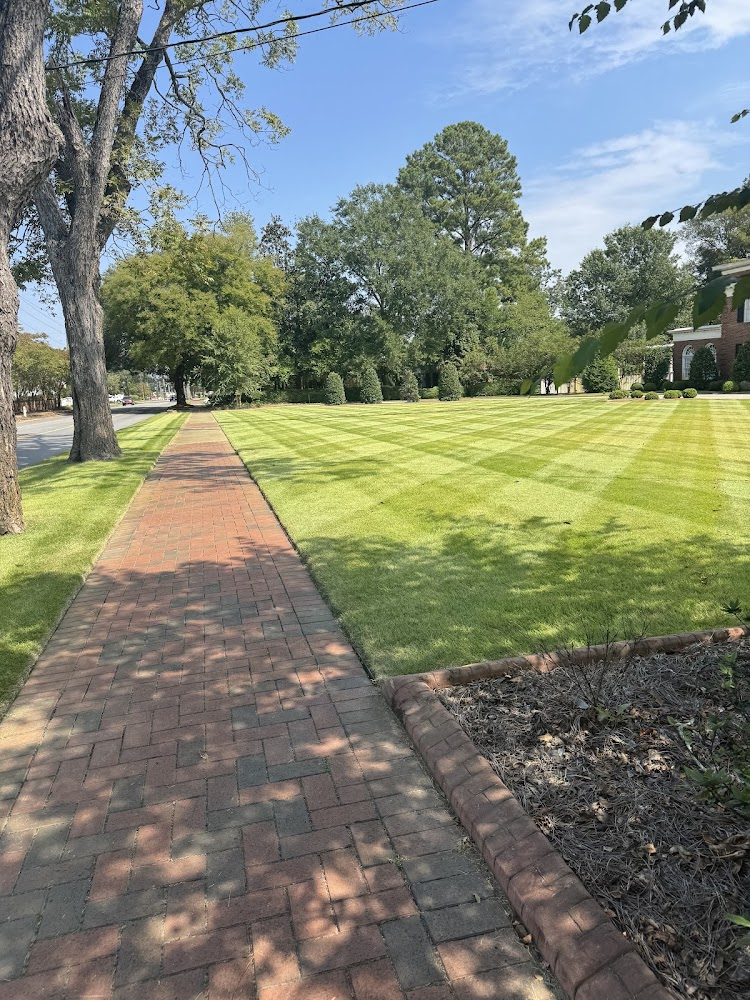
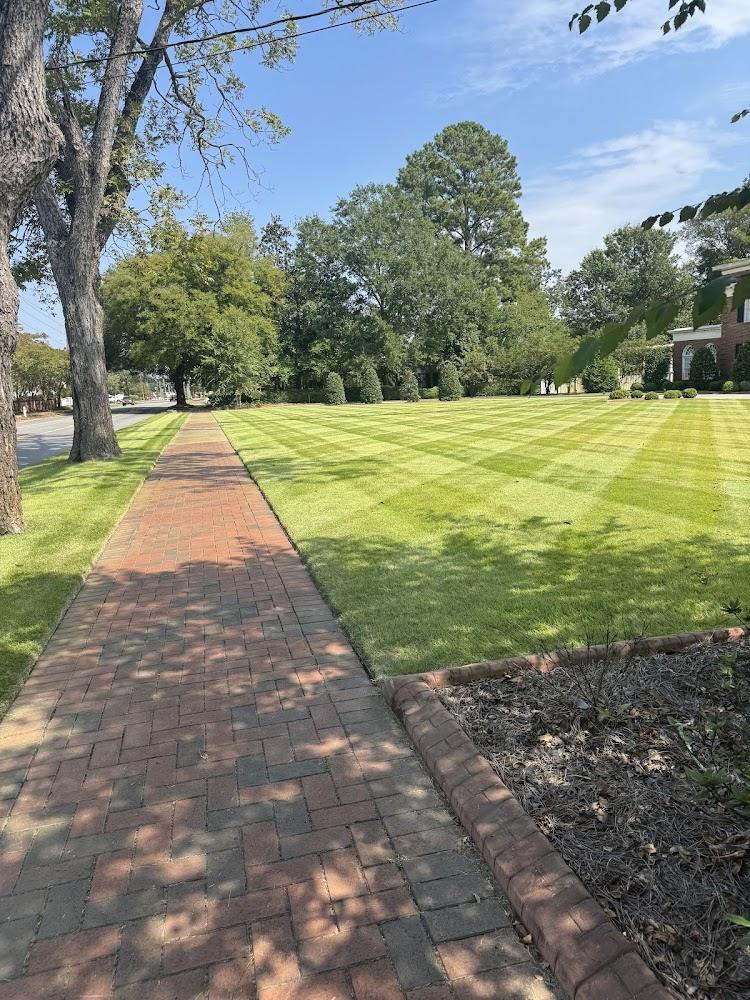
Preview: clark-s-lawn-care

diff --git a/clark-s-lawn-care/index.html b/clark-s-lawn-care/index.html
@@ -108,10 +108,23 @@ footer .wrap{display:flex;justify-content:space-between;gap:20px;flex-wrap:wrap;
 .bar a.alt{background:var(--card);color:var(--ink);border:1px solid var(--line)}
 @media (max-width:900px){.hgrid{grid-template-columns:1fr}.gal{grid-template-columns:1fr 1fr;grid-auto-rows:150px}nav{display:none}.grid,.steps{grid-template-columns:1fr 1fr}.split,.quote{grid-template-columns:1fr}.trust .wrap{grid-template-columns:1fr 1fr}.trust div:nth-child(3){border-left:0}.trust div:nth-child(n+3){border-top:1px solid var(--line)}}
 @media (max-width:600px){.grid,.steps{grid-template-columns:1fr}.hero .wrap{padding:56px 20px 64px}section{padding:64px 0}.quote{padding:30px 22px;border-radius:20px}.call{display:none}.bar{display:flex}.logo small{display:none}}
+.pv a{color:#f5b83d;font-weight:700;text-decoration:none;margin-left:6px}
+.claim{background:var(--ink);color:#f2efe8;padding:72px 0}
+.claim h2{color:#fff;margin:10px 0 12px}.claim p{color:#c9c5bc;max-width:52ch;margin:0}
+.cl{display:grid;grid-template-columns:1.1fr 1fr;gap:40px;align-items:center}
+.t3{display:grid;grid-template-columns:repeat(3,1fr);gap:10px;margin-top:26px}
+.t3 div{border:1px solid rgba(255,255,255,.16);border-radius:14px;padding:14px}
+.t3 b{display:block;font-size:24px;color:#fff}.t3 span{font-size:13px;color:#c9c5bc;line-height:1.35;display:block;margin-top:4px}
+.clb{display:grid;gap:10px}
+.clb a{display:block;text-align:center;padding:16px;border-radius:12px;font-weight:700;text-decoration:none;border:1px solid rgba(255,255,255,.25);color:#fff}
+.clb a.go{background:#f5b83d;color:#14140f;border-color:#f5b83d}
+.clb small{color:#9e9a91;text-align:center;font-size:13px}
+@media (max-width:900px){.cl{grid-template-columns:1fr}.t3{grid-template-columns:1fr 1fr 1fr}}
+@media (max-width:600px){.claim{padding:56px 0 110px}.t3 b{font-size:20px}}
 </style>
 </head>
 <body>
-<div class="pv"><b>Free preview</b> built for Clark&#x27;s Lawn Care by Cole Ormont · Not live yet</div>
+<div class="pv"><b>Free preview</b> built for Clark&#x27;s Lawn Care by Cole Ormont · Not live yet<a href="#claim">Make it yours ↓</a></div>
 <header><div class="wrap">
 <a class="logo" href="#top"><span class="mark">CS</span><span><b>Clark&#x27;s Lawn Care</b><small>Lawn care · Dublin, GA</small></span></a>
 <nav><a href="#services">Services</a><a href="#how">How it works</a><a href="#area">Service area</a><a href="#faq">FAQ</a></nav>
@@ -174,6 +187,12 @@ footer .wrap{display:flex;justify-content:space-between;gap:20px;flex-wrap:wrap;
 </form>
 </div></div></section>
 
+<section id="claim" class="claim"><div class="wrap"><div class="cl">
+<div><div class="eyebrow" style="color:#f5b83d">For Clark&#x27;s Lawn Care</div><h2>Like it? It can be live this week.</h2>
+<p>This is a free preview built for your business. Keep it as is or tell Cole what to change. Your domain, your site, you own it.</p>
+<div class="t3"><div><b>$399</b><span>This page, live on your own domain</span></div><div><b>$650</b><span>Full site with your photos and gallery</span></div><div><b>$850+</b><span>Everything plus online booking</span></div></div></div>
+<div class="clb"><a class="go" href="sms:+15088077554?&body=Hi%20Cole%2C%20I%20saw%20the%20preview%20you%20made%20for%20Clark%27s%20Lawn%20Care.%20I%27m%20interested.">Text Cole about this site</a><a href="tel:+15088077554">Call Cole · (508) 807-7554</a><small>Half to start, half when it's live. No contracts.</small></div>
+</div></div></section>
 <footer><div class="wrap"><span><b style="color:var(--ink)">Clark&#x27;s Lawn Care</b> · Lawn care · Dublin, GA</span><span><a href="tel:+14786095581">478-609-5581</a></span></div></footer>
 <div class="bar"><a href="tel:+14786095581">Call</a><a class="alt" href="#quote">Free quote</a></div>
 <script>
